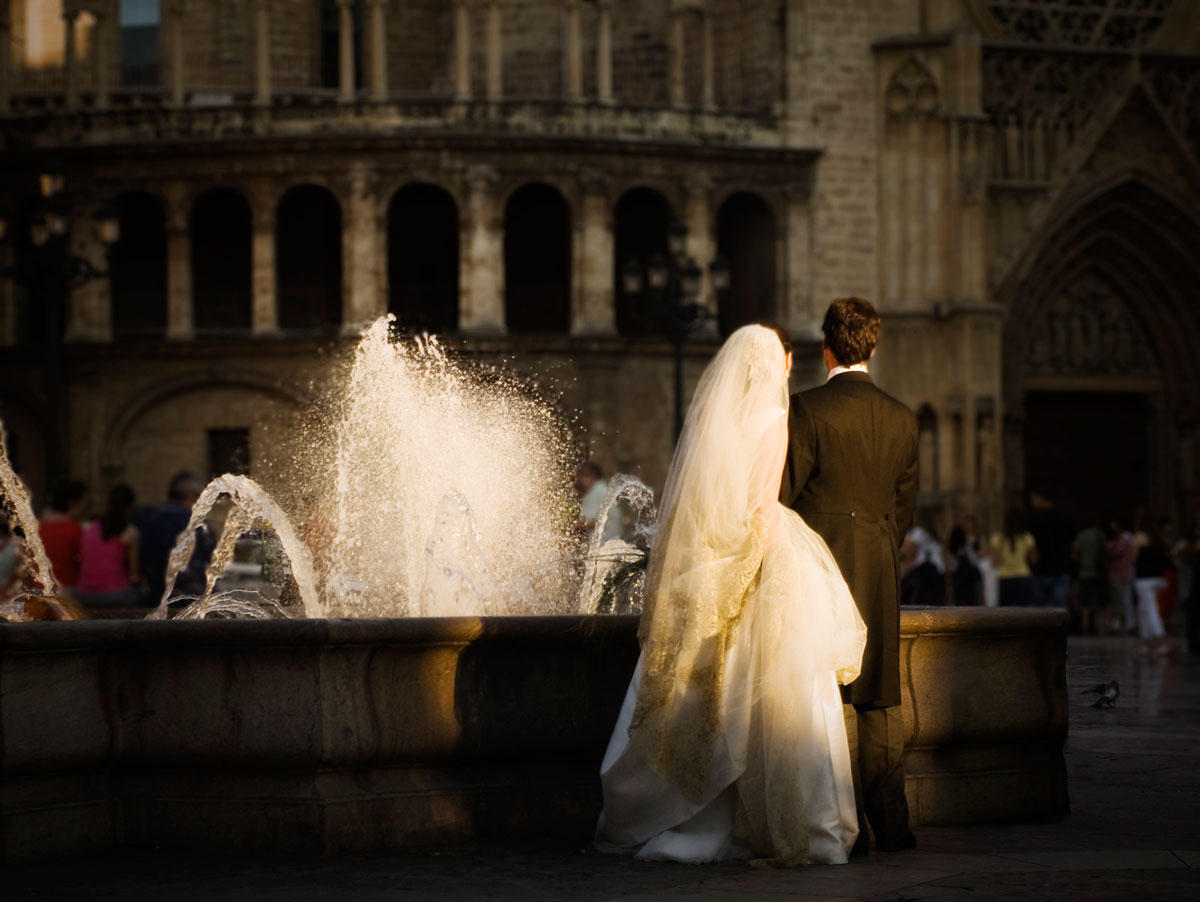
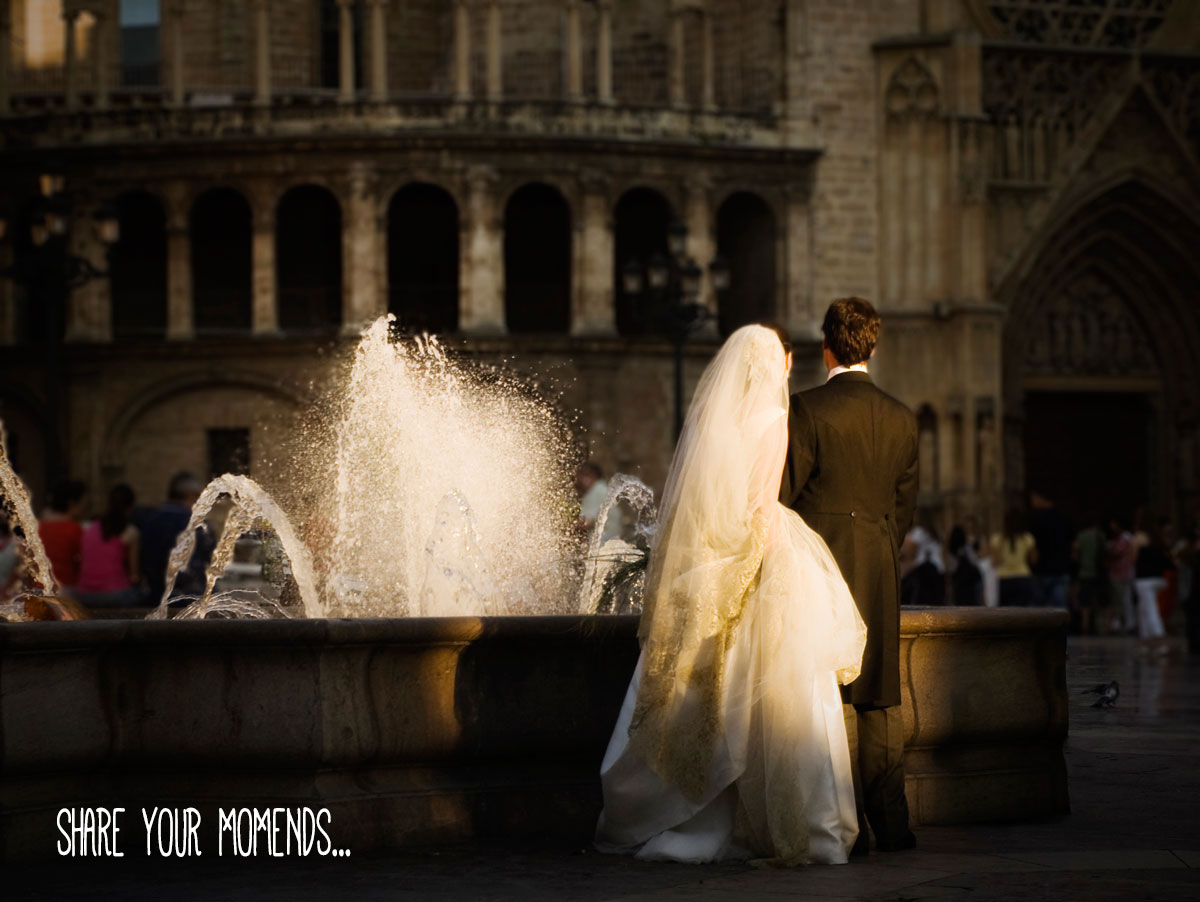
new homepage images

Changed region(s): [[0.0308, 0.9002, 0.2775, 0.9623]]

diff --git a/WebManager/templates/HomePageTemplate.html b/WebManager/templates/HomePageTemplate.html
@@ -19,20 +19,16 @@
                         </div>
                     </div>
                     <div class="item homepage-carousel-item">
-                        <img alt="momend picture" src="{{ STATIC_URL }}img/carousel1.jpg" />
-                        <div class="slogan" >YOU ARE AT THE STAGE...</div>
+                        <img class="momend-carousel-picture" alt="momend picture" src="{{ STATIC_URL }}img/carousel1.jpg" />
                     </div>
                     <div class="item homepage-carousel-item">
-                        <img alt="momend picture" src="{{ STATIC_URL }}img/carousel5.jpg" />
-                        <div class="slogan" >YOU HAVE MOMENDS TO LIVE...</div>
+                        <img class="momend-carousel-picture" alt="momend picture" src="{{ STATIC_URL }}img/carousel5.jpg" />
                     </div>
                     <div class="item homepage-carousel-item">
-                        <img alt="momend picture" src="{{ STATIC_URL }}img/carousel2.jpg" />
-                        <div class="slogan">CAPTURE THE MOMEND...</div>
+                        <img class="momend-carousel-picture" alt="momend picture" src="{{ STATIC_URL }}img/carousel2.jpg" />
                     </div>
                     <div class="item homepage-carousel-item">
-                        <img alt="momend picture" src="{{ STATIC_URL }}img/carousel3.jpg" />
-                        <div class="slogan">SHARE YOUR MOMENDS...</div>
+                        <img class="momend-carousel-picture" alt="momend picture" src="{{ STATIC_URL }}img/carousel3.jpg" />
                     </div>
                 </div>
                 <!-- Carousel navigation -->

diff --git a/WebManager/static/main.css b/WebManager/static/main.css
@@ -20,13 +20,7 @@ select.modal-form-input{
     font-weight: normal;
     font-style: normal;
 }
-.slogan{
-    position: absolute;
-    top: 260px;
-    right: 0px;
-    margin: 10px;
-    color: white;
-    text-shadow: -1px 0 black, 0 1px black, 1px 0 black, 0 -1px black;
-    font-size:2.5em;
-    font-family:Mathlete,serif;
+.momend-carousel-picture{
+    height: 306px;
+    width: 515px;
 }
